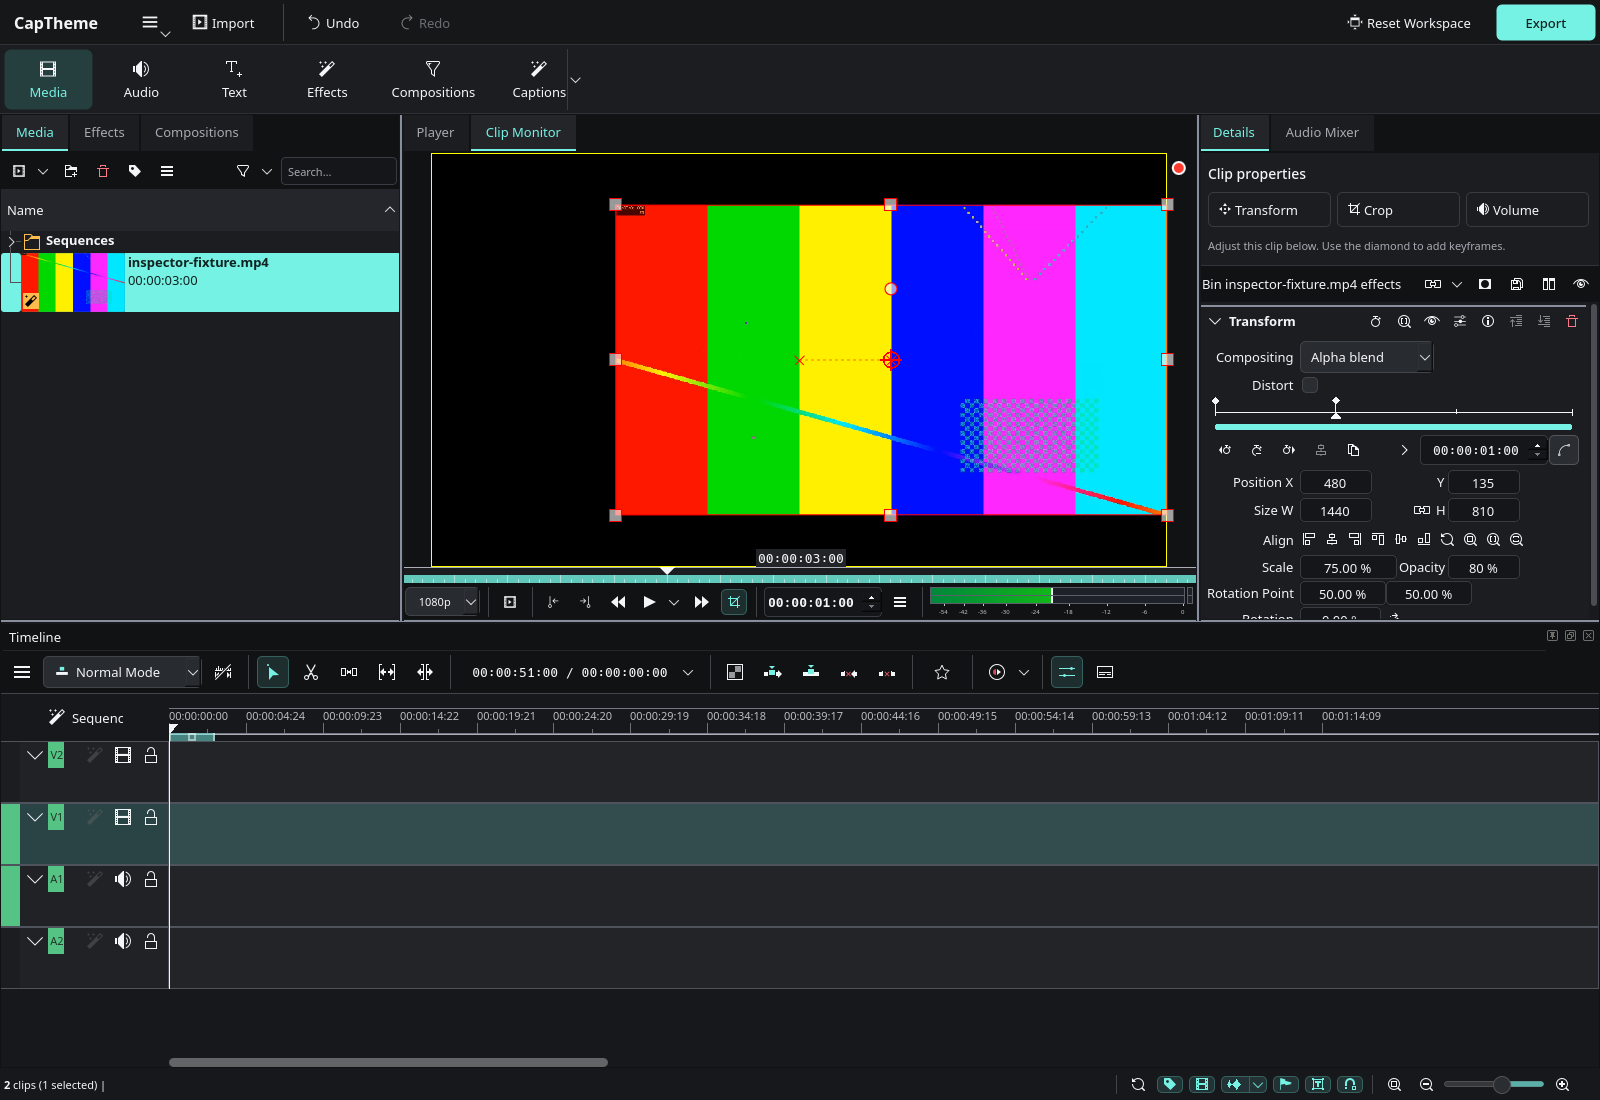
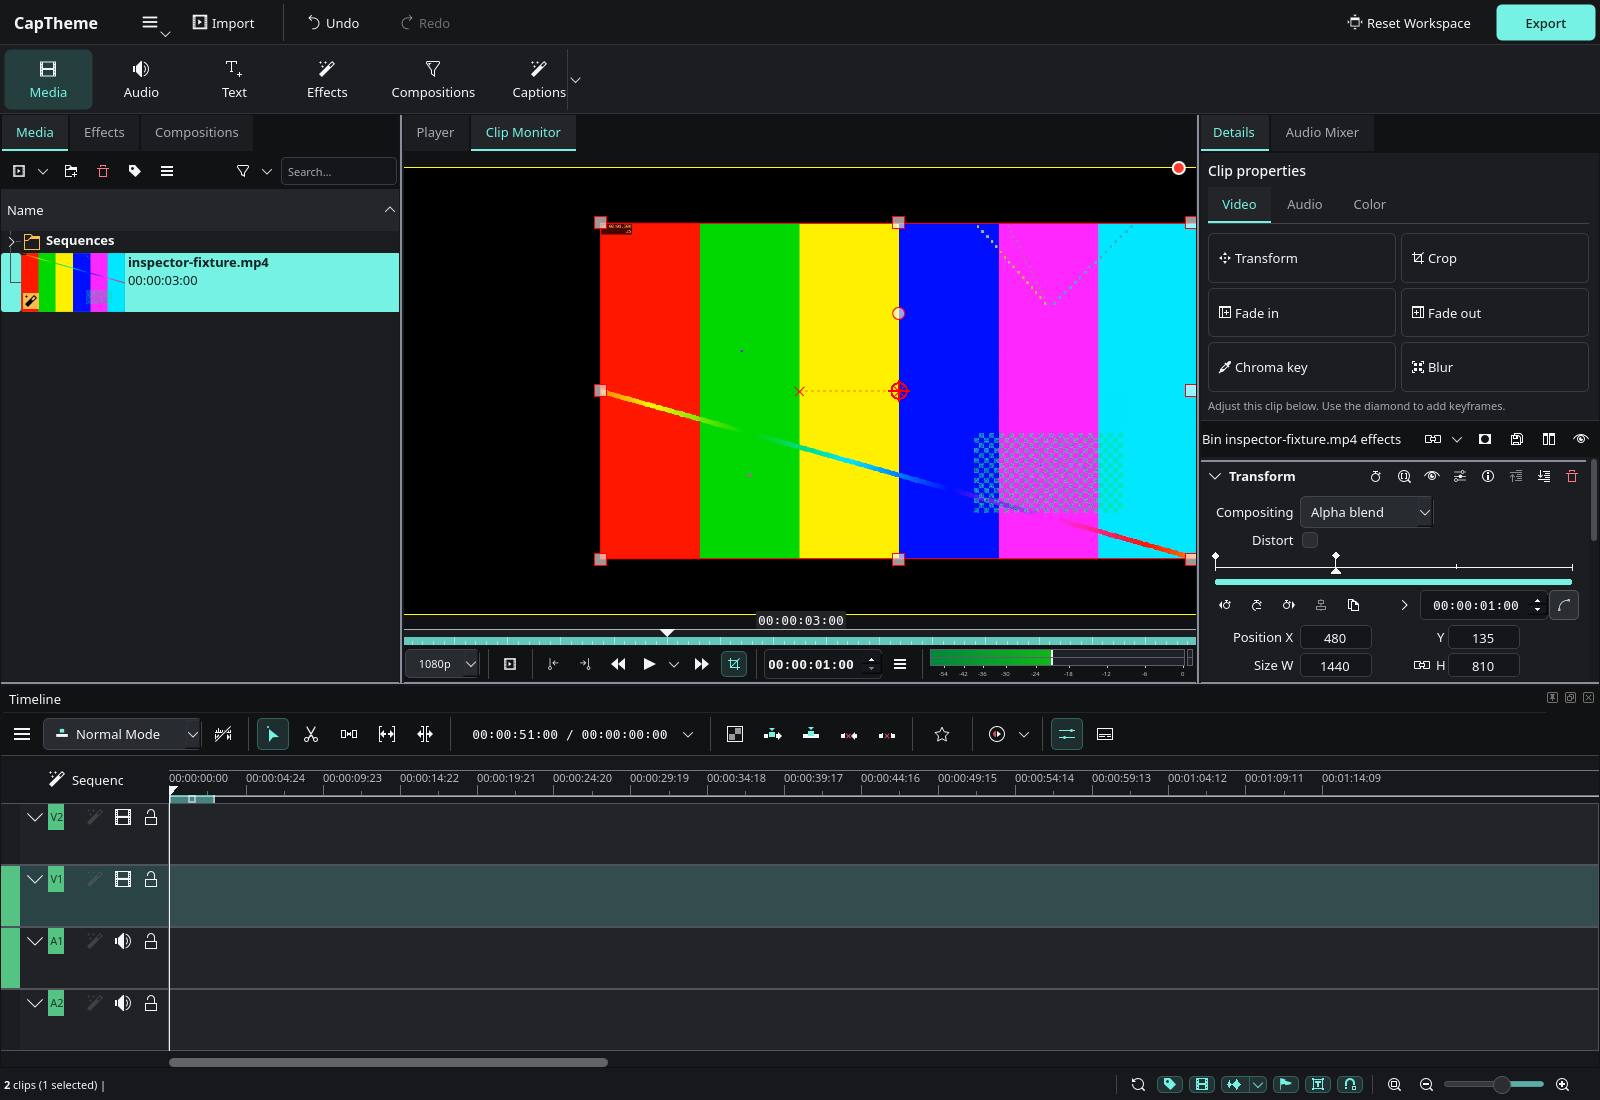
Organize clip inspector into video audio and color categories

Changed region(s): [[0.0, 0.1545, 1.0, 0.9273], [0.0, 0.5564, 0.0312, 0.5873]]

diff --git a/kdenlive/src/assets/assetpanel.cpp b/kdenlive/src/assets/assetpanel.cpp
@@ -32,6 +32,8 @@
 #include <QFontDatabase>
 #include <QFormLayout>
 #include <QLabel>
+#include <QGridLayout>
+#include <QTabWidget>
 #include <QMenu>
 #include <QScrollArea>
 #include <QScrollBar>
@@ -218,15 +220,34 @@ void AssetPanel::setupCapThemeInspector()
     auto *title = new QLabel(i18n("Clip properties"), m_capThemeInspector);
     title->setObjectName(QStringLiteral("capthemeInspectorTitle"));
     layout->addWidget(title);
-    auto *buttons = new QHBoxLayout;
-    auto addButton = [this, buttons](const QString &name, const QString &text, const QString &icon, const QString &effectId) {
-        auto *button = new QToolButton(m_capThemeInspector);
+    m_capThemeCategories = new QTabWidget(m_capThemeInspector);
+    m_capThemeCategories->setObjectName(QStringLiteral("capthemeCategories"));
+    m_capThemeCategories->setDocumentMode(true);
+    layout->addWidget(m_capThemeCategories);
+    auto addCategory = [this](const QString &name, const QString &label, bool audio) {
+        auto *page = new QWidget(m_capThemeCategories);
+        page->setObjectName(name);
+        page->setProperty("capthemeAudio", audio);
+        auto *grid = new QGridLayout(page);
+        grid->setContentsMargins(0, 8, 0, 0);
+        grid->setSpacing(5);
+        grid->setColumnStretch(0, 1);
+        grid->setColumnStretch(1, 1);
+        m_capThemeCategories->addTab(page, label);
+        return grid;
+    };
+    auto addButton = [this](QGridLayout *grid, const QString &name, const QString &text, const QString &icon, const QString &effectId, const QString &hint) {
+        auto *button = new QToolButton(grid->parentWidget());
         button->setObjectName(name);
         button->setText(text);
         button->setIcon(QIcon::fromTheme(icon));
         button->setToolButtonStyle(Qt::ToolButtonTextBesideIcon);
         button->setSizePolicy(QSizePolicy::Expanding, QSizePolicy::Preferred);
-        buttons->addWidget(button);
+        button->setProperty("capthemeEffect", effectId);
+        button->setProperty("capthemeHint", hint);
+        button->setProperty("capthemeAudio", grid->parentWidget()->property("capthemeAudio"));
+        const int index = grid->count();
+        grid->addWidget(button, index / 2, index % 2);
         connect(button, &QToolButton::clicked, this, [this, effectId]() {
             if (!m_effectStackWidget->isVisible() || m_maskManager->isVisible()) {
                 return;
@@ -235,15 +256,49 @@ void AssetPanel::setupCapThemeInspector()
                 assetPanelWarning(effectId, i18n("This effect is not available for the selected clip."));
             }
         });
-        return button;
     };
-    m_capThemeTransform = addButton(QStringLiteral("capthemeTransform"), i18n("Transform"), QStringLiteral("transform-move"), QStringLiteral("qtblend"));
-    m_capThemeTransform->setToolTip(i18n("Position, scale, rotation, opacity and keyframes. Opens the existing Transform effect or adds it once."));
-    m_capThemeCrop = addButton(QStringLiteral("capthemeCrop"), i18n("Crop"), QStringLiteral("transform-crop"), QStringLiteral("qtcrop"));
-    m_capThemeCrop->setToolTip(i18n("Adjust the crop of the selected video clip."));
-    m_capThemeVolume = addButton(QStringLiteral("capthemeVolume"), i18n("Volume"), QStringLiteral("audio-volume-high"), QStringLiteral("volume"));
-    m_capThemeVolume->setToolTip(i18n("Audio gain and volume keyframes."));
-    layout->addLayout(buttons);
+    auto *video = addCategory(QStringLiteral("capthemeVideoPage"), i18n("Video"), false);
+    addButton(video, QStringLiteral("capthemeTransform"), i18n("Transform"), QStringLiteral("transform-move"), QStringLiteral("qtblend"),
+              i18n("Position, scale, rotation, opacity and keyframes."));
+    addButton(video, QStringLiteral("capthemeCrop"), i18n("Crop"), QStringLiteral("transform-crop"), QStringLiteral("qtcrop"), i18n("Crop the video image."));
+    addButton(video, QStringLiteral("capthemeVideoFadeIn"), i18n("Fade in"), QStringLiteral("view-right-new"), QStringLiteral("fade_from_black"),
+              i18n("Fade video from black."));
+    addButton(video, QStringLiteral("capthemeVideoFadeOut"), i18n("Fade out"), QStringLiteral("view-left-new"), QStringLiteral("fade_to_black"),
+              i18n("Fade video to black."));
+    addButton(video, QStringLiteral("capthemeChroma"), i18n("Chroma key"), QStringLiteral("color-picker"), QStringLiteral("chroma"),
+              i18n("Make a selected color transparent."));
+    addButton(video, QStringLiteral("capthemeBlur"), i18n("Blur"), QStringLiteral("edit-select-all"), QStringLiteral("box_blur"),
+              i18n("Adjust horizontal and vertical blur."));
+
+    auto *audio = addCategory(QStringLiteral("capthemeAudioPage"), i18n("Audio"), true);
+    addButton(audio, QStringLiteral("capthemeVolume"), i18n("Volume"), QStringLiteral("audio-volume-high"), QStringLiteral("volume"),
+              i18n("Audio gain and volume keyframes."));
+    addButton(audio, QStringLiteral("capthemeBalance"), i18n("Balance"), QStringLiteral("audio-speakers"), QStringLiteral("audiobalance"),
+              i18n("Adjust left and right channel balance."));
+    addButton(audio, QStringLiteral("capthemeAudioFadeIn"), i18n("Fade in"), QStringLiteral("view-right-new"), QStringLiteral("fadein"),
+              i18n("Fade audio in."));
+    addButton(audio, QStringLiteral("capthemeAudioFadeOut"), i18n("Fade out"), QStringLiteral("view-left-new"), QStringLiteral("fadeout"),
+              i18n("Fade audio out."));
+    addButton(audio, QStringLiteral("capthemeEqualizer"), i18n("Equalizer"), QStringLiteral("configure"), QStringLiteral("avfilter.equalizer"),
+              i18n("Adjust gain around a selected frequency."));
+    addButton(audio, QStringLiteral("capthemeCompressor"), i18n("Compressor"), QStringLiteral("configure"), QStringLiteral("avfilter.acompressor"),
+              i18n("Control audio dynamic range."));
+    addButton(audio, QStringLiteral("capthemeNormalize"), i18n("Normalize"), QStringLiteral("audio-volume-high"), QStringLiteral("dynamic_loudness"),
+              i18n("Dynamically adjust loudness to a target level."));
+
+    auto *color = addCategory(QStringLiteral("capthemeColorPage"), i18n("Color"), false);
+    addButton(color, QStringLiteral("capthemeBrightness"), i18n("Brightness"), QStringLiteral("view-brightness"), QStringLiteral("brightness"),
+              i18n("Adjust image intensity with keyframes."));
+    addButton(color, QStringLiteral("capthemeColorAdjust"), i18n("Basic correction"), QStringLiteral("configure"), QStringLiteral("avfilter.eq"),
+              i18n("Brightness, contrast, gamma and saturation."));
+    addButton(color, QStringLiteral("capthemeSaturation"), i18n("Saturation"), QStringLiteral("color-management"), QStringLiteral("frei0r.saturat0r"),
+              i18n("Adjust color saturation."));
+    addButton(color, QStringLiteral("capthemeGamma"), i18n("Gamma"), QStringLiteral("view-brightness"), QStringLiteral("gamma"),
+              i18n("Adjust gamma with keyframes."));
+    addButton(color, QStringLiteral("capthemeColorWheels"), i18n("Color wheels"), QStringLiteral("color-management"), QStringLiteral("lift_gamma_gain"),
+              i18n("Lift, gamma and gain color wheels."));
+    addButton(color, QStringLiteral("capthemeWhiteBalance"), i18n("Color balance"), QStringLiteral("color-picker"),
+              QStringLiteral("frei0r.three_point_balance"), i18n("Balance shadows, midtones and highlights using three color points."));
     m_capThemeHint = new QLabel(m_capThemeInspector);
     m_capThemeHint->setObjectName(QStringLiteral("capthemeInspectorHint"));
     m_capThemeHint->setWordWrap(true);
@@ -258,9 +313,32 @@ void AssetPanel::updateCapThemeInspector(bool video, bool audio)
         return;
     }
     m_capThemeInspector->show();
-    m_capThemeTransform->setEnabled(video && EffectsRepository::get()->exists(QStringLiteral("qtblend")));
-    m_capThemeCrop->setEnabled(video && EffectsRepository::get()->exists(QStringLiteral("qtcrop")));
-    m_capThemeVolume->setEnabled(audio && EffectsRepository::get()->exists(QStringLiteral("volume")));
+    for (auto *button : m_capThemeCategories->findChildren<QToolButton *>()) {
+        const QString effectId = button->property("capthemeEffect").toString();
+        if (effectId.isEmpty()) {
+            continue;
+        }
+        const bool available = EffectsRepository::get()->exists(effectId);
+        const bool compatible = button->property("capthemeAudio").toBool() ? audio : video;
+        button->setEnabled(compatible && available);
+        button->setToolTip(!available    ? i18n("This effect is not installed in this Kdenlive/MLT setup.")
+                           : !compatible ? i18n("Select a clip with the matching media type to use this effect.")
+                                         : button->property("capthemeHint").toString());
+    }
+    const bool hadSelection = m_capThemeCategories->isTabEnabled(0) || m_capThemeCategories->isTabEnabled(1);
+    for (int index = 0; index < m_capThemeCategories->count(); ++index) {
+        const bool isAudio = m_capThemeCategories->widget(index)->property("capthemeAudio").toBool();
+        m_capThemeCategories->setTabEnabled(index, isAudio ? audio : video);
+    }
+    // Keep the user's category for compatible clips; choose a usable category
+    // when switching between audio-only and video-only selections.
+    if (video && !hadSelection) {
+        m_capThemeCategories->setCurrentIndex(0);
+    } else if (audio && !video) {
+        m_capThemeCategories->setCurrentIndex(1);
+    } else if (video && !audio && m_capThemeCategories->currentIndex() == 1) {
+        m_capThemeCategories->setCurrentIndex(0);
+    }
     m_capThemeHint->setText(video || audio ? i18n("Adjust this clip below. Use the diamond to add keyframes.")
                                            : i18n("Select a clip in the timeline or project bin to edit its properties. Timeline adjustments affect that "
                                                   "instance; bin adjustments affect the source clip."));

diff --git a/tests/inspector-smoke.cpp b/tests/inspector-smoke.cpp
@@ -10,6 +10,7 @@
 #include <QDoubleSpinBox>
 #include <QTest>
 #include <QTimer>
+#include <QTabWidget>
 #include <QToolButton>
 #include <QTreeView>
 #include <cstdio>
@@ -84,6 +85,18 @@ static void exercise()
     tree->selectionModel()->select(index, QItemSelectionModel::ClearAndSelect | QItemSelectionModel::Rows);
     QMetaObject::invokeMethod(tree, "doubleClicked", Q_ARG(QModelIndex, index));
     QTest::qWait(1500);
+    const QString mediaKind = qEnvironmentVariable("CAPTHEME_TEST_MEDIA_KIND");
+    if (!mediaKind.isEmpty()) {
+        auto *tabs = qobject_cast<QTabWidget *>(named(QStringLiteral("capthemeCategories")));
+        check(tabs, "media categories exist");
+        const bool audioOnly = mediaKind == QStringLiteral("audio");
+        check(tabs->isTabEnabled(0) == !audioOnly && tabs->isTabEnabled(2) == !audioOnly, "Video and Color follow actual media streams");
+        check(tabs->isTabEnabled(1) == audioOnly, "Audio follows actual media streams");
+        check(tabs->currentIndex() == (audioOnly ? 1 : 0), "compatible category is selected automatically");
+        check(named(QStringLiteral("capthemeVolume"))->isEnabled() == audioOnly, "Volume follows selected clip audio availability");
+        check(transform->isEnabled() == !audioOnly, "Transform follows selected clip video availability");
+        std::_Exit(0);
+    }
     check(transform->isEnabled(), "video selection enables Transform");
     check(named(QStringLiteral("capthemeVolume"))->isEnabled(), "AV selection enables Volume");
     transform->click();
@@ -120,6 +133,38 @@ static void exercise()
     QTest::qWait(200);
     setValue(QStringLiteral("spinX"), 480);
     check(editor->screen()->grabWindow(editor->winId()).save(qEnvironmentVariable("CAPTHEME_SCREENSHOT")), "real inspector screenshot saved");
+
+    auto *categories = qobject_cast<QTabWidget *>(named(QStringLiteral("capthemeCategories")));
+    check(categories && categories->count() == 3, "Video, Audio and Color categories exist");
+    const int baseline = effects->model()->rowCount();
+    categories->setCurrentIndex(1);
+    QTest::qWait(150);
+    auto *volume = qobject_cast<QToolButton *>(named(QStringLiteral("capthemeVolume")));
+    check(volume && volume->isVisible() && volume->isEnabled(), "Audio category exposes Volume");
+    volume->click();
+    QTest::qWait(300);
+    check(effects->model()->rowCount() == baseline + 1, "Volume adds a native audio effect");
+    volume->click();
+    check(effects->model()->rowCount() == baseline + 1, "reopening Volume does not duplicate it");
+    undo->trigger();
+    QTest::qWait(200);
+    check(effects->model()->rowCount() == baseline, "audio effect addition can be undone");
+    redo->trigger();
+    QTest::qWait(200);
+    check(effects->model()->rowCount() == baseline + 1, "audio effect addition can be redone");
+    categories->setCurrentIndex(2);
+    auto *brightness = qobject_cast<QToolButton *>(named(QStringLiteral("capthemeBrightness")));
+    check(brightness && brightness->isVisible() && brightness->isEnabled(), "Color category exposes Brightness");
+    brightness->click();
+    QTest::qWait(300);
+    check(effects->model()->rowCount() == baseline + 2, "Brightness adds a native color effect");
+    brightness->click();
+    check(effects->model()->rowCount() == baseline + 2, "reopening Brightness does not duplicate it");
+    categories->setCurrentIndex(0);
+    transform->click();
+    QTest::qWait(200);
+    check(value(named(QStringLiteral("spinX"))) == 480, "switching categories preserves Transform keyframes");
+    check(editor->screen()->grabWindow(editor->winId()).save(qEnvironmentVariable("CAPTHEME_SCREENSHOT")), "categorized inspector screenshot saved");
 
     auto *save = action(QStringLiteral("file_save_as"));
     check(save, "save action exists");

diff --git a/tests/ui-smoke.cpp b/tests/ui-smoke.cpp
@@ -9,6 +9,7 @@
 #include <QMenuBar>
 #include <QScreen>
 #include <QTimer>
+#include <QTabWidget>
 #include <QToolBar>
 #include <QToolButton>
 #include <cstdio>
@@ -56,6 +57,10 @@ static void checkInterface()
         auto *volume = widget(QStringLiteral("capthemeVolume"));
         require(transform && volume, "clip inspector shortcuts are present");
         require(!transform->isEnabled() && !volume->isEnabled(), "clip controls are disabled without a selection");
+        auto *categories = qobject_cast<QTabWidget *>(widget(QStringLiteral("capthemeCategories")));
+        require(categories && categories->count() == 3, "inspector has three media categories");
+        for (int i = 0; i < categories->count(); ++i) require(!categories->isTabEnabled(i), "categories are disabled without a selection");
+
         require(qApp->palette().color(QPalette::Window).lightness() < 50, "dark palette reaches QApplication and QML");
         require(qApp->palette().color(QPalette::Highlight) == QColor(118, 242, 228), "mint selection palette loaded from resource");
 

diff --git a/kdenlive/src/assets/assetpanel.hpp b/kdenlive/src/assets/assetpanel.hpp
@@ -17,6 +17,7 @@ class KDualAction;
 class KMessageWidget;
 class QToolButton;
 class QComboBox;
+class QTabWidget;
 class QScrollArea;
 
 class AssetParameterModel;
@@ -89,9 +90,7 @@ private:
     void updateCapThemeInspector(bool video = false, bool audio = false);
     QWidget *m_capThemeInspector{nullptr};
     QLabel *m_capThemeHint{nullptr};
-    QToolButton *m_capThemeTransform{nullptr};
-    QToolButton *m_capThemeCrop{nullptr};
-    QToolButton *m_capThemeVolume{nullptr};
+    QTabWidget *m_capThemeCategories{nullptr};
     QAction *m_compositionHelpLink;
     QMenu *m_applyEffectGroups;
     QAction *m_saveEffectStack;

diff --git a/tests/check-inspector-project.py b/tests/check-inspector-project.py
@@ -21,3 +21,8 @@ assert first[0] == 240 and last[0] == 480, (first, last)
 assert first[2:4] == last[2:4] == [1440, 810], (first, last)
 assert abs(first[4] - 0.8) < 0.0001 and abs(last[4] - 0.8) < 0.0001
 print("PASS: one Transform, scale 75%, opacity 80%, and two position keyframes persisted.")
+
+ids = [effect.find("property[@name='kdenlive_id']").text
+       for effect in root.iter("filter") if effect.find("property[@name='kdenlive_id']") is not None]
+assert ids.count("volume") == 1 and ids.count("brightness") == 1, ids
+print("PASS: native audio and color effects persisted without duplicates.")

diff --git a/README.md b/README.md
@@ -105,9 +105,18 @@ mas não baixa modelos nem valida a qualidade da transcrição.
 
 Na versão de desenvolvimento, selecione um clipe e use os atalhos no painel direito:
 
-- **Transform**: posição X/Y, escala, largura/altura, opacidade, rotação e ponto de rotação.
-- **Crop**: recorte por retângulo, cantos arredondados ou círculo, com preenchimento.
-- **Volume**: ganho de áudio com animação por keyframes.
+| Categoria | Controles nativos |
+| --- | --- |
+| **Vídeo** | Transformação (posição, escala, rotação e opacidade), recorte, fades de entrada/saída, chroma key e desfoque. |
+| **Áudio** | Volume, balanço estéreo, fades de entrada/saída, equalizador, compressor e normalização dinâmica. |
+| **Cor** | Brilho, correção básica (contraste, brilho, gamma e saturação), saturação, gamma, rodas de cor e balanço por três pontos. |
+
+As categorias abrem os controles nativos na pilha de efeitos abaixo. A pilha mantém
+a ordem de processamento de todos os efeitos aplicados; trocar de categoria não
+altera o resultado nem adiciona efeitos. Cliques de áudio só ficam ativos em clipes
+com áudio, e os de vídeo/cor em clipes com imagem. Efeitos ausentes na instalação
+ficam desabilitados com uma explicação no tooltip. Ao selecionar áudio sem vídeo,
+a categoria Áudio é aberta automaticamente.
 
 O primeiro clique adiciona o efeito correspondente; os próximos abrem o efeito já
 existente, preservando seus valores. Sem um clipe selecionado, os atalhos ficam
@@ -130,7 +139,10 @@ Teste do inspector:
 
 O teste importa um vídeo sintético com áudio, altera escala, opacidade e posição,
 confere desfazer/refazer e ausência de duplicação, cria um segundo keyframe e salva
-o projeto. A validação do XML confirma os valores e os dois keyframes persistidos.
+o projeto. O teste também abre as categorias Áudio e Cor, adiciona Volume e Brilho, verifica
+reabertura sem duplicação e desfazer/refazer. A validação do XML confirma os valores,
+os dois keyframes e os efeitos de áudio e cor persistidos. Projetos separados com
+áudio puro e vídeo sem áudio verificam a habilitação das categorias conforme a mídia.
 Os arquivos de teste e a captura ficam em `artifacts/`.
 
 ### Arquivos principais

diff --git a/CHANGELOG.md b/CHANGELOG.md
@@ -2,6 +2,10 @@
 
 ## Em desenvolvimento
 
+- Inspector organizado em Vídeo, Áudio e Cor, com 19 atalhos para efeitos nativos.
+- Categorias e efeitos acompanham o tipo de mídia e a disponibilidade dos plugins instalados.
+- Testes de adição e persistência de efeitos de áudio/cor, reabertura sem duplicação e troca de categorias preservando keyframes.
+
 - Barra de projeto e navegação por categorias separadas, com ícones acima dos rótulos.
 - Polimento de campos, botões, abas, listas e barras de rolagem em superfícies escuras.
 - Legendas abre a ferramenta nativa de transcrição automática (Whisper/Vosk); menu preserva edição manual, importação, exportação e gerenciamento.
